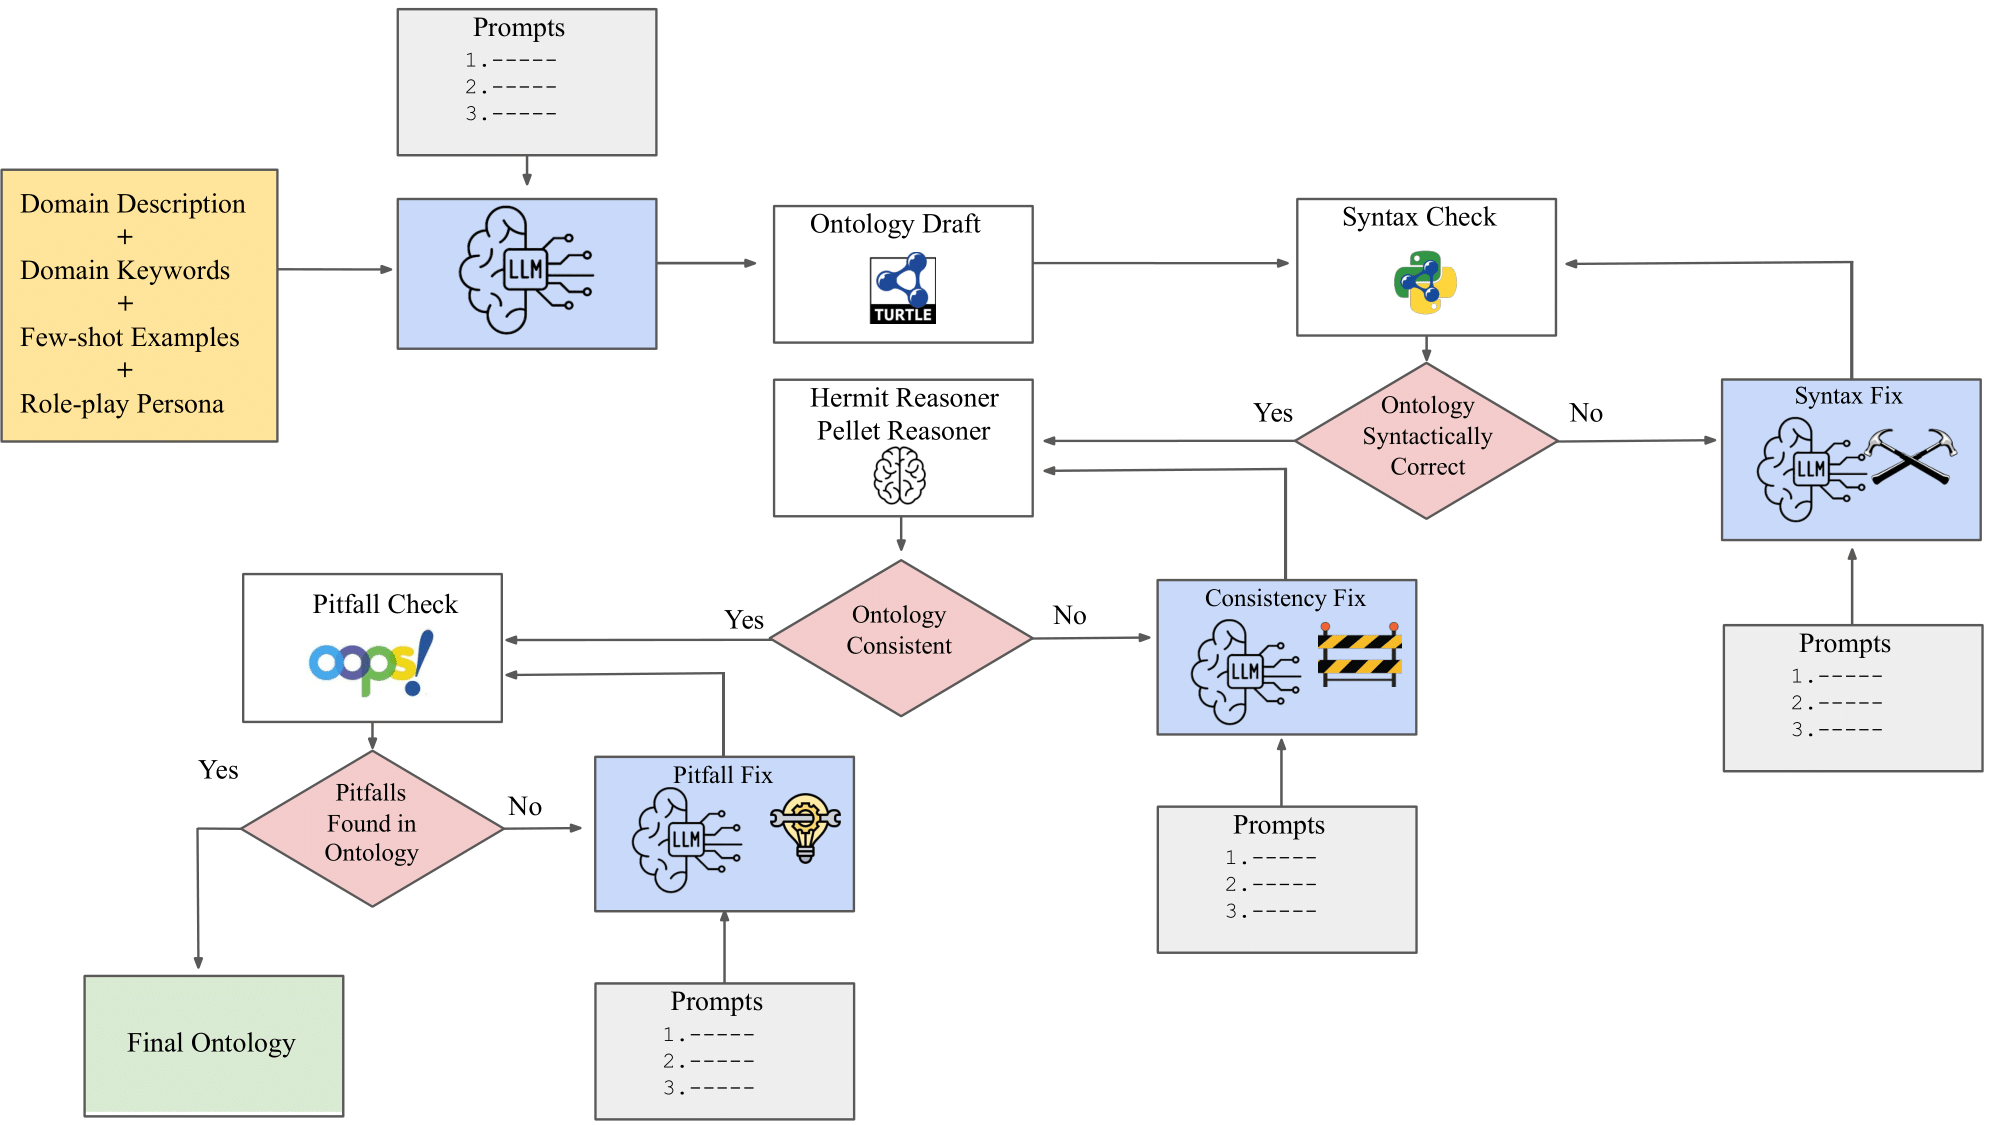
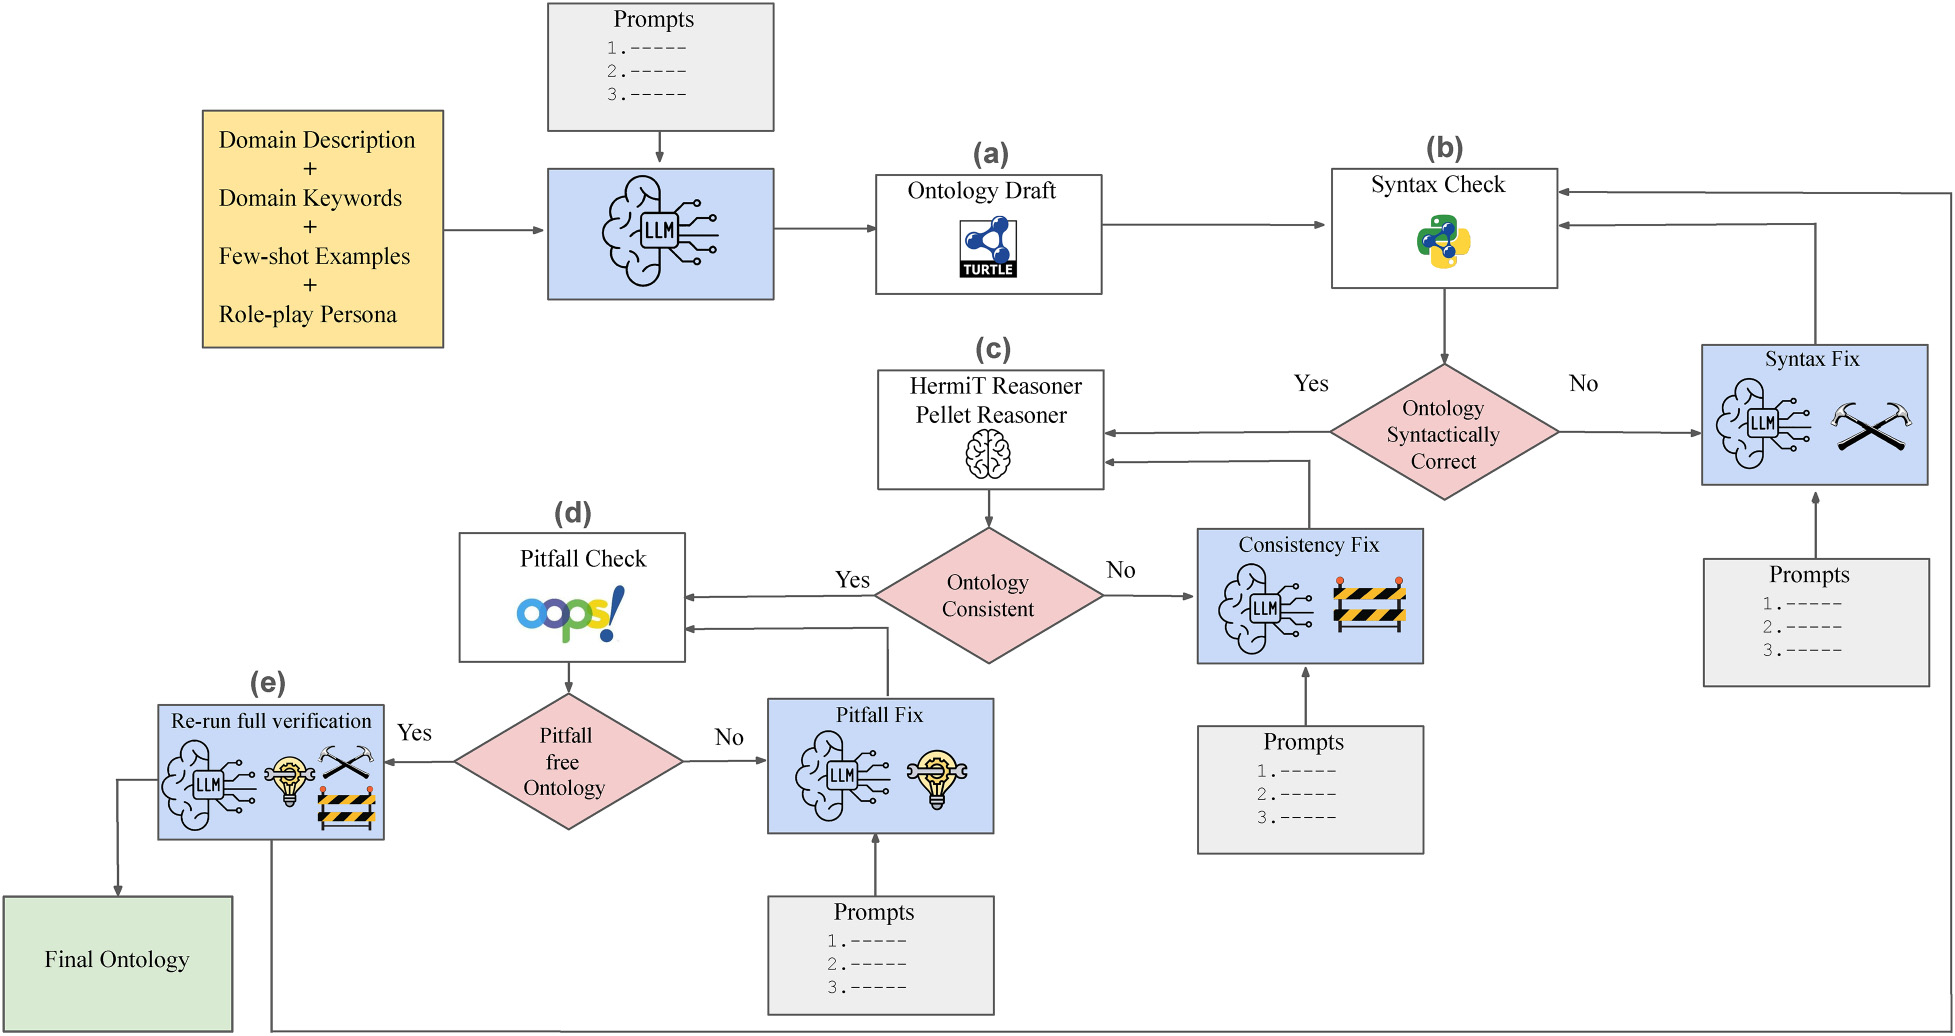
README: match the published paper
- The published abstract replaces the submitted one.
- The pipeline figure is the paper's Figure 1, with the stage labels (a)-(e)
  and the final verification pass.
- Draft generation: the domain keywords as an input and the eight steps.
- Verification: ROBOT explanations, only critical OOPS! pitfalls repaired,
  at most 25 attempts per stage, and the final pass over all three checks.
- Citation: pages 1-47 and the DOI.

diff --git a/README.md b/README.md
@@ -4,27 +4,27 @@
 
 # Extended NeOn-GPT: Advancing LLM-Powered Ontology Learning Through Ontology Reuse and Automated Verification
 
-Large Language Models (LLMs) offer promising capabilities for automating ontology engineering tasks; however, existing approaches often focus on isolated knowledge extraction rather than comprehensive ontology construction. In this paper, we present an extended version of NeOn-GPT, a pipeline that integrates prompt-engineered LLM interactions within the structured NeOn ontology engineering methodology. Building on our prior work, we enhance the pipeline with improved prompting strategies, support for ontology reuse, and more robust validation mechanisms. We apply the updated pipeline across four domains—wine, sewer networks, cheminformatics, and environmental microbiology—using both proprietary (GPT-4o) and open-source (Mistral, Deepseek, Llama) LLMs to evaluate model and domain generalization. The resulting ontologies are assessed against expert-curated gold standards using structural, lexical, and semantic metrics. Our results highlight the domain-specific strengths and limitations of different LLMs, revealing that while models can capture relevant concepts and properties (relations), challenges remain in lexical alignment, hierarchical depth, and semantic precision. This work presents a comprehensive framework for evaluating LLM-based ontology generation, offering practical insights to enhance the quality and scalability of ontology learning pipelines.  The process involves the following stages: 
+We present the extended NeOn-GPT pipeline, an LLM-powered, domain-agnostic ontology learning framework grounded in the NeOn methodology. The pipeline comprises two components: (i) ontology draft generation through multi-step prompting—covering requirement specification, competency questions, conceptualization, formal modeling, population, and documentation—and (ii) automated verification and repair through orchestrated calls to third-party tools complemented by LLM-suggested fixes. The extended pipeline introduces an explicit ontology reuse step to guide LLMs toward more consistent modeling decisions. We evaluate NeOn-GPT across four domains (Wine, Cheminformatics, Environmental Microbiology, and Sewer Networks) using both proprietary (GPT-4o) and open-source (Mistral, Llama-4, DeepSeek) models. Gold-standard alignment is assessed via structural metrics (class, property, and axiom profiles), lexical metrics, and semantic metrics based on sentence embeddings. Results show that LLMs consistently generate ontologies with rich relational structures and meaningful semantic alignment, with most entity and triple similarities falling in the 0.5–0.8 range. This study provides a comprehensive, cross-domain evaluation of NeOn-guided LLM ontology learning, clarifying its capabilities and limitations. The pipeline involves the following stages:
 
  ✍ **1. Ontology Draft Generation**
 
-This stage begins with structured inputs: a domain description, a curated set of few-shot examples, and a carefully crafted role-play persona that primes the LLM to act as a domain expert. Guided by these inputs, the model is prompted to define the ontology’s purpose, scope, and intended users, which leads to the generation of competency questions—natural language queries that the final ontology should be able to answer. The LLM extracts key domain entities and relations from these questions, building a conceptual model with hierarchical class structures. The pipeline then supports reusing existing ontologies by integrating relevant fragments directly into the prompt. Finally, the model enriches this conceptual representation with formal axioms, descriptive metadata, and named individuals. The result of this stage is a complete ontology draft serialized in Turtle syntax. 
+This stage begins with structured inputs: a domain description, 10–15 domain keywords, a curated set of few-shot examples, and a role-play persona that primes the LLM to act as a domain expert. Guided by these inputs, the model goes through eight steps: (1) requirement specification, where it defines the ontology's purpose, scope, target group, and functional and non-functional requirements; (2) generation of competency questions, the natural language questions the final ontology should be able to answer; (3) conceptual modeling, where it extracts entities and properties from these questions and builds the class hierarchy; (4) reuse, new in this extended version, where relevant fragments of existing ontologies are added to the prompt; (5) implementation in Turtle; (6) formal modeling, which adds property axioms such as inverse, functional, symmetric, and transitive properties; (7) population with named individuals; and (8) documentation, which adds metadata and comments. The result of this stage is an ontology draft serialized in Turtle syntax.
 
 <div align="center">
   <img src="./images/ontology_draft_gen.png" width="500" alt="Ontology Draft Generation"/>
 </div>
 
- Figure 1: Ontology draft generation pipeline guided by domain description, few-shot examples, and expert role-play prompting.
+ Figure 1: Ontology draft generation stages. Step 4 (Reuse, in green) is new in this extended version.
 
  🔁 **2. NeOn-GPT pipeline**
 
-Once the draft is generated, it is passed through a three-stage validation and refinement process: (a) syntax checking using RDFLib, (b) logical consistency verification with OWL reasoners such as HermiT and Pellet, and (c) pitfall detection using the OOPS! Framework. Errors identified by these tools—such as syntax violations, logical inconsistency, or modeling pitfalls—are fed back to the LLM as diagnostic prompts. The model is then prompted to revise and repair the ontology, enabling an iterative refinement loop that produces a syntactically valid, logically consistent, and semantically robust output.
+Once the draft (a) is generated, it goes through three verification and repair stages: (b) syntax checking with RDFLib; (c) logical consistency checking with the HermiT and Pellet reasoners, where ROBOT explains each inconsistency or unsatisfiable class; and (d) pitfall detection with OOPS!, where only critical pitfalls are repaired. At each stage, the tool's diagnostic message and the affected part of the ontology are sent to the LLM, which proposes a fix. The fix is applied and the check runs again, for at most 25 attempts per stage. Finally (e), all three checks run once more on the repaired ontology, so that a fix made in one stage cannot leave an error for another.
 
 <div align="center">
   <img src="./images/pipeline.png" width="600" alt="NeOn-GPT Workflow"/>
 </div>
 
- Figure 2: Full NeOn-GPT workflow showing ontology generation, validation, and iterative refinement using LLM prompts guided by diagnostic feedback from RDFLib, OWL reasoners, and OOPS!
+ Figure 2: The full NeOn-GPT pipeline: the ontology draft (a) goes through syntax checking with RDFLib (b), consistency checking with HermiT and Pellet (c), and pitfall detection with OOPS! (d), each with LLM-based repair, and a final verification pass (e).
 
  
 
@@ -167,7 +167,8 @@ If you find this work useful, please consider citing our paper:
   journal={Semantic Web},
   volume={17},
   number={4},
-  pages={22104968261453138},
+  pages={1--47},
+  doi={10.1177/22104968261453138},
   year={2026},
   publisher={SAGE Publications, Sage UK: London, England}
 }
